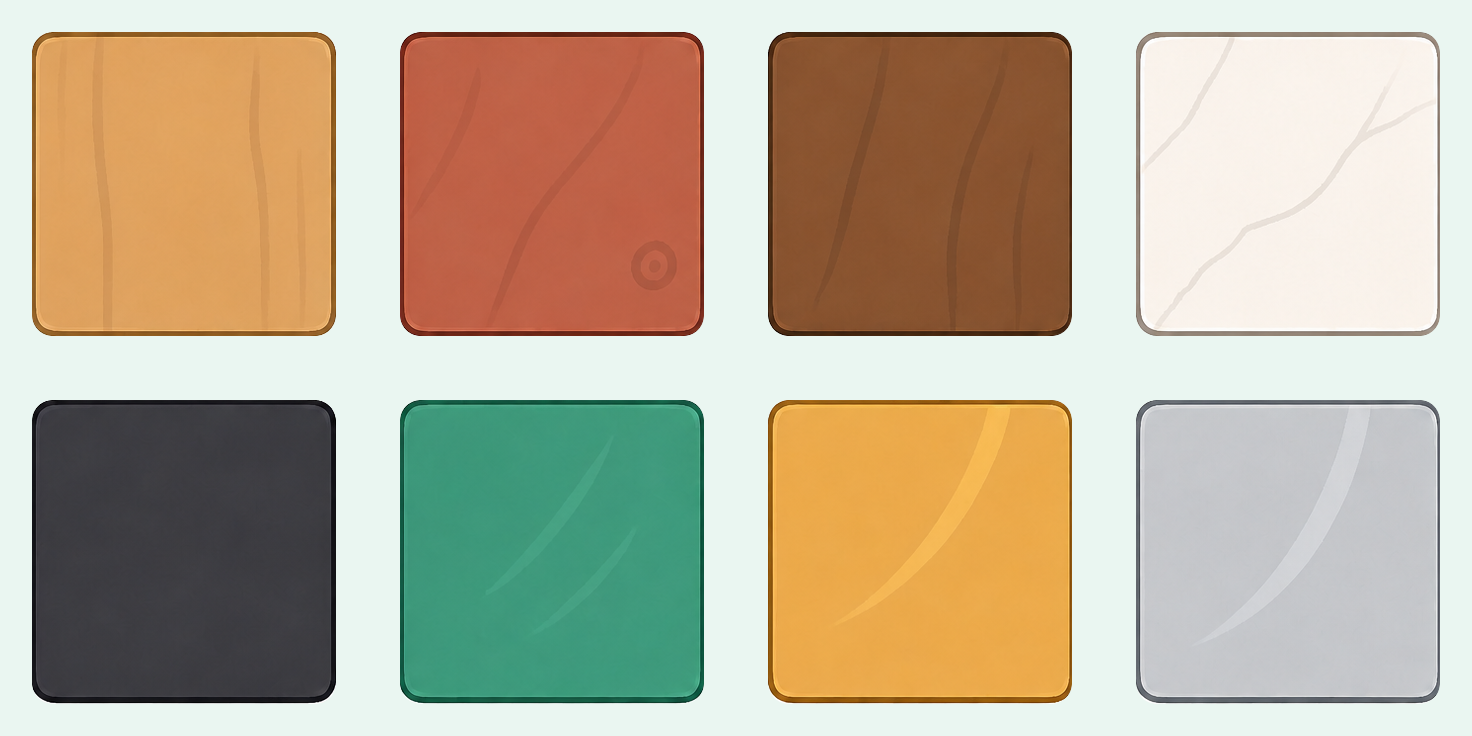
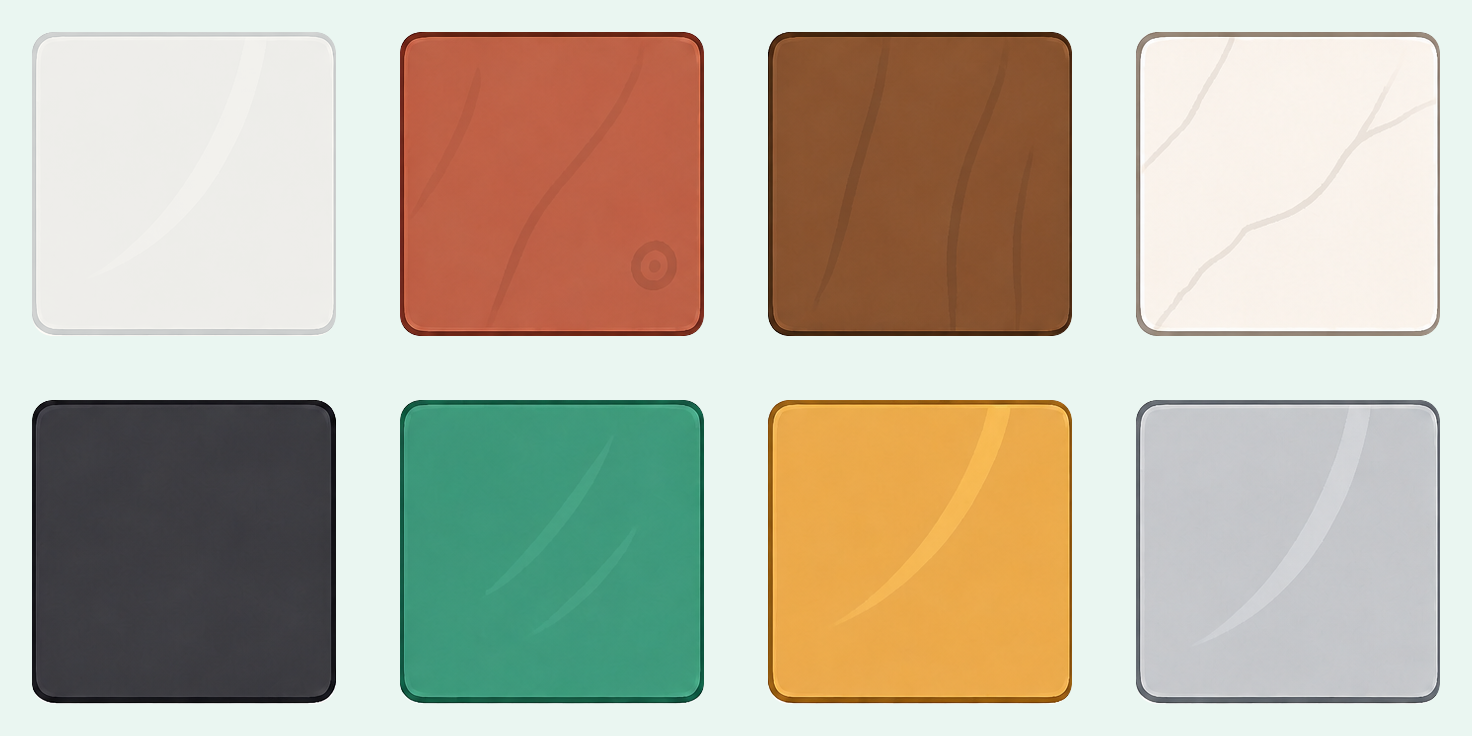
*

Changed region(s): [[0.0, 0.0312, 0.25, 0.4688]]

diff --git a/GourmetProject/Assets/GameMain/Scripts/Gameplay/Scoring/SkillScopeResolver.cs b/GourmetProject/Assets/GameMain/Scripts/Gameplay/Scoring/SkillScopeResolver.cs
@@ -415,34 +415,38 @@ namespace GourmetProject.Gameplay.Scoring
             DishInstance self,
             SkillRuleDef rule,
             SkillScope scope,
-            bool isActionScope)
+            bool isActionScope,
+            bool allowActionSelfInclusion = true)
         {
             if (board == null || self == null)
             {
                 return new List<GridPos>();
             }
 
-            if (isActionScope && rule != null)
+            // actionParam 中的分类、技能类型、尺寸等只筛选实际目标，不改变作用范围几何。
+            // include:self 是唯一会扩展几何范围的目标参数，单独并入自身占格。
+            if (isActionScope
+                && allowActionSelfInclusion
+                && rule != null
+                && HasActionParam(rule, "include:self"))
             {
-                string category = TargetFilterCategory(rule);
-                string skillType = ParseSkillTypeParam(rule.ActionParams);
-                if (!string.IsNullOrEmpty(category)
-                    || !string.IsNullOrEmpty(skillType)
-                    || HasActionParam(rule, "include:self"))
+                List<GridPos> cells = VisualCellsForScope(
+                    db,
+                    board,
+                    self,
+                    rule,
+                    scope,
+                    isActionScope: true,
+                    allowActionSelfInclusion: false);
+                foreach (GridPos selfCell in self.OccupiedCells)
                 {
-                    List<DishInstance> filtered = ResolveScopeDishes(
-                        db,
-                        board,
-                        self,
-                        rule,
-                        includeSelfForSelfScope: true);
-                    if (rule.ActionType == SkillActionType.TransferSkills)
+                    if (!cells.Contains(selfCell))
                     {
-                        filtered.RemoveAll(d => d.Id == self.Id);
+                        cells.Add(selfCell);
                     }
-
-                    return CellsForDishes(filtered);
                 }
+
+                return cells;
             }
 
             switch (scope)

diff --git a/GourmetProject/Assets/GameMain/Tests/EditMode/SkillScopeSingleRegionTests.cs b/GourmetProject/Assets/GameMain/Tests/EditMode/SkillScopeSingleRegionTests.cs
@@ -239,6 +239,34 @@ namespace GourmetProject.Tests.EditMode
             AssertFormalKind(database, board, cake, "sk_eggtart", 0, SkillScopeRegionKind.Unified);
         }
 
+        [Test]
+        public void FormalCreamCake_CategoryFilterKeepsFullColumnGeometry()
+        {
+            GameplayDatabase database = LoadFormalDatabase();
+            DishDef definition = database.GetDish("cream_cake");
+            SkillDef skill = database.GetSkill("sk_cream_cake");
+            var board = new DiningTable(5, 5);
+            var creamCake = new DishInstance(
+                20,
+                definition,
+                new Placement(definition.Shape, 0, new GridPos(1, 1)),
+                definition.SkillIds,
+                Array.Empty<string>());
+            board.Place(creamCake);
+
+            SkillScopeVisual visual = SkillScopeResolver.Resolve(
+                database,
+                board,
+                creamCake,
+                skill.Rules[1],
+                SkillScopeVisualMode.CandidateScope);
+
+            Assert.That(visual.ScopeRegionKind, Is.EqualTo(SkillScopeRegionKind.Action));
+            Assert.That(visual.ScopeRegionCells, Has.Count.EqualTo(10));
+            Assert.That(visual.ActionScopeCells, Has.Count.EqualTo(10));
+            Assert.That(visual.VisualTargetDishInstanceIds, Is.EquivalentTo(new[] { creamCake.Id }));
+        }
+
         private SkillScopeVisual Resolve(SkillRuleDef rule)
         {
             return SkillScopeResolver.Resolve(

diff --git a/GourmetProject/Art/GeneratedDiningTableMaterials/v2_flat_square/README.md b/GourmetProject/Art/GeneratedDiningTableMaterials/v2_flat_square/README.md
@@ -6,7 +6,7 @@ thickness, plates, food, labels, or cast shadows.
 
 Material mapping:
 
-- `board_cell_flat.png` — 普通木 / light oak
+- `board_cell_flat.png` — 默认白色塑料餐盘 / matte white plastic
 - `board_cell_flat_m_cherry.png` — 樱桃木 / cherry wood
 - `board_cell_flat_m_walnut.png` — 胡桃木 / walnut wood
 - `board_cell_flat_m_marble.png` — 大理石 / white marble
@@ -19,9 +19,10 @@ Generation prompt summary:
 
 > Eight identical, top-down square tabletop tiles in a clean hand-drawn flat
 > cartoon style. Fresh, tidy palette; one base color, one subtle edge, and at
-> most two broad material cues per tile. Exact order: light oak, cherry wood,
-> walnut wood, white marble, obsidian, emerald, gold, silver. No legs, depth,
-> structural details, plates, food, text, icons, props, shadows, or watermark.
+> most two broad material cues per tile. Exact order: matte white plastic,
+> cherry wood, walnut wood, white marble, obsidian, emerald, gold, silver. No
+> legs, depth, structural details, food, text, icons, props, shadows, or
+> watermark.
 
 `review_sheet.png` is the generated review sheet. `export_preview.png` is a
 mint-background contact sheet for quick visual inspection; use the individual
